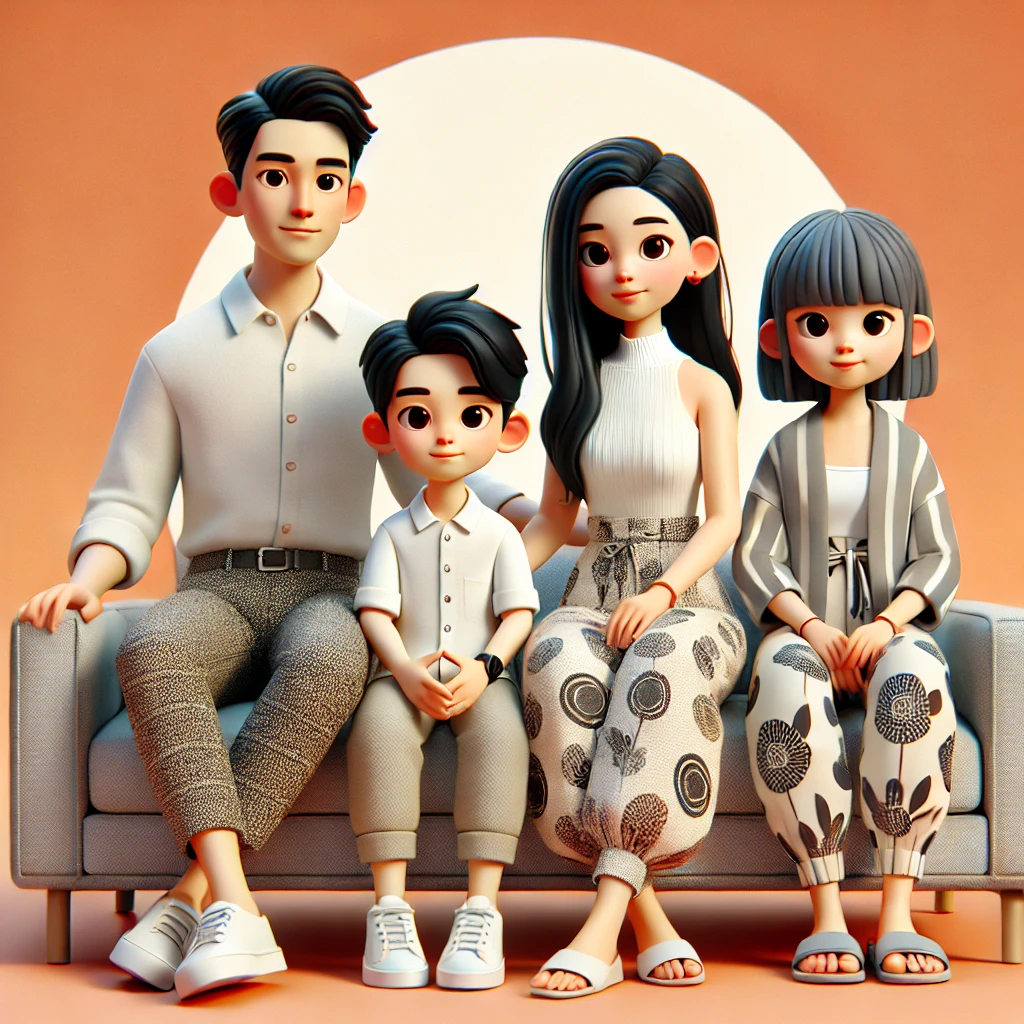
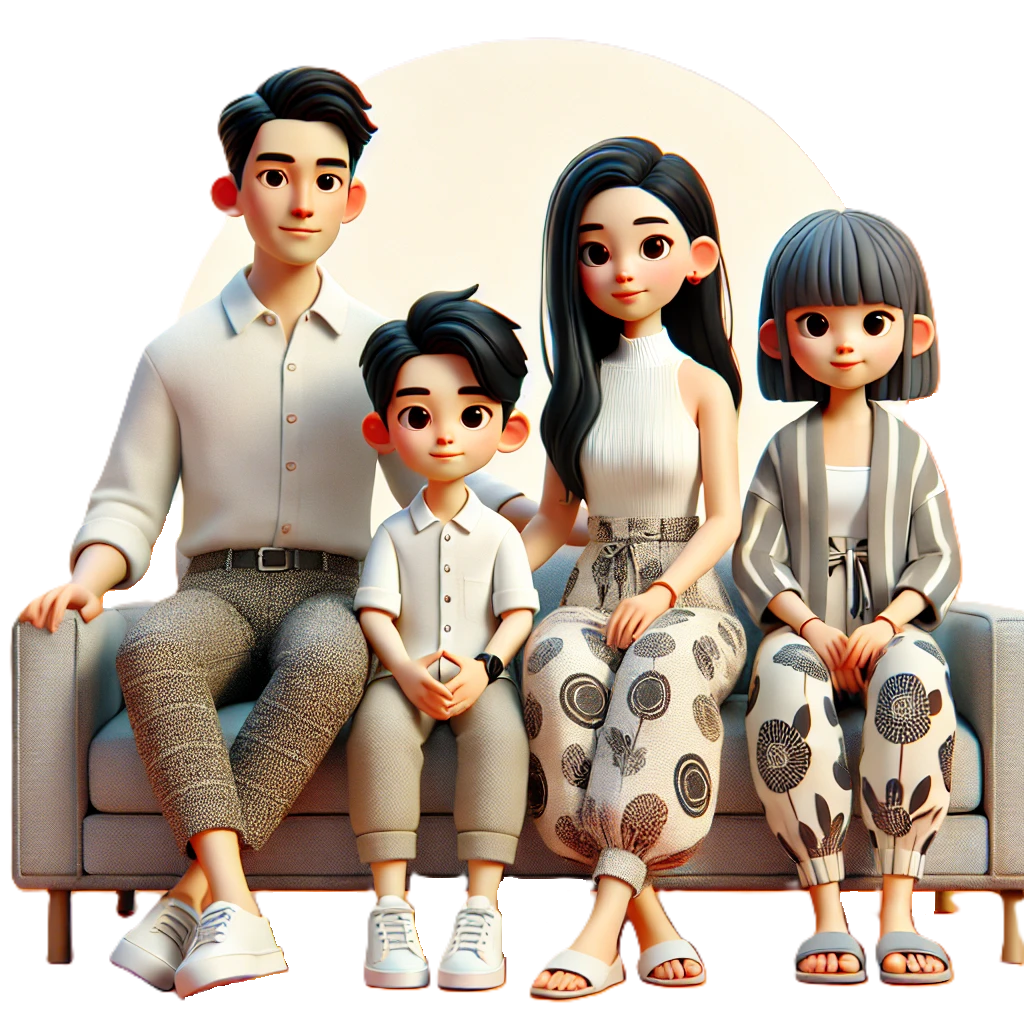
updated welcome page

diff --git a/app/welcome.tsx b/app/welcome.tsx
@@ -1,30 +1,40 @@
 import { StyleSheet, Text, Image, View } from "react-native";
 import React from "react";
-import ScreenWrapper from "../components/ScreenWrapper";
 import { StatusBar } from "expo-status-bar";
 import { hp, wp } from "../helpers/common";
 import { theme } from "../constants/theme";
+import { LinearGradient } from "expo-linear-gradient";
 
 const welcome = () => {
   return (
-    <ScreenWrapper bg="white">
-      <StatusBar style="dark" />
-      <View className="bg-black">
-        <Text className="text-white">testasdf</Text>{" "}
-      </View>
-      <View style={styles.container}>
+    <View style={styles.container}>
+      {/* Upper half without gradient */}
+      <View style={styles.upperHalf} className="z-20">
         <Image
           style={styles.welcomeImage}
           resizeMode="contain"
-          source={require("../assets/images/logo.png")}
+          source={require("../assets/images/family_transparent.png")}
         />
         {/* Title */}
-        <View style={{ gap: 20 }}>
-          <Text style={styles.title}>Infinity</Text>
-          <Text style={styles.punchline}>The Infinity App</Text>
+        <View style={styles.textContainer}>
+          <Text style={styles.title}>infinity</Text>
+          <Text style={styles.punchline}>
+            Family stays close, no matter how far apart
+          </Text>
         </View>
       </View>
-    </ScreenWrapper>
+
+      {/* Bottom half with gradient */}
+      <LinearGradient
+        className="z-10"
+        colors={[
+          "rgba(255, 246, 229, 0)", // Light orange with 0% opacity (transparent)
+          "rgba(255, 209, 209, 0.6)", // Light pink with 60% opacity
+          "rgba(255, 246, 229, 1)", // Light orange with 100% opacity
+        ]}
+        style={styles.gradient}
+      ></LinearGradient>
+    </View>
   );
 };
 
@@ -33,24 +43,43 @@ export default welcome;
 const styles = StyleSheet.create({
   container: {
     flex: 1,
+    backgroundColor: "white",
+  },
+  upperHalf: {
+    flex: 1,
     alignItems: "center",
-    justifyContent: "space-around",
-    marginHorizontal: wp(10),
+    justifyContent: "center",
+  },
+  gradient: {
+    height: "70%", // Cover the bottom half of the screen
+    width: "500%",
+    position: "absolute",
+    bottom: 0, // Position it at the bottom of the screen
   },
   welcomeImage: {
-    height: hp(15),
+    height: hp(30),
+    width: hp(30),
     alignSelf: "center",
+  },
+  textContainer: {
+    marginTop: 20,
+    alignItems: "center",
   },
   title: {
     color: theme.colors.text,
+    position: "relative",
+    bottom: 50,
+    marginTop: hp(20),
     fontSize: hp(4),
     textAlign: "center",
     fontWeight: theme.fonts.extraBold as "800",
   },
   punchline: {
     textAlign: "center",
-    paddingHorizontal: wp(10),
-    fontSize: hp(1.7),
+    position: "relative",
+    bottom: 50,
+    marginTop: hp(2),
+    fontSize: hp(2),
     color: theme.colors.text,
   },
 });
